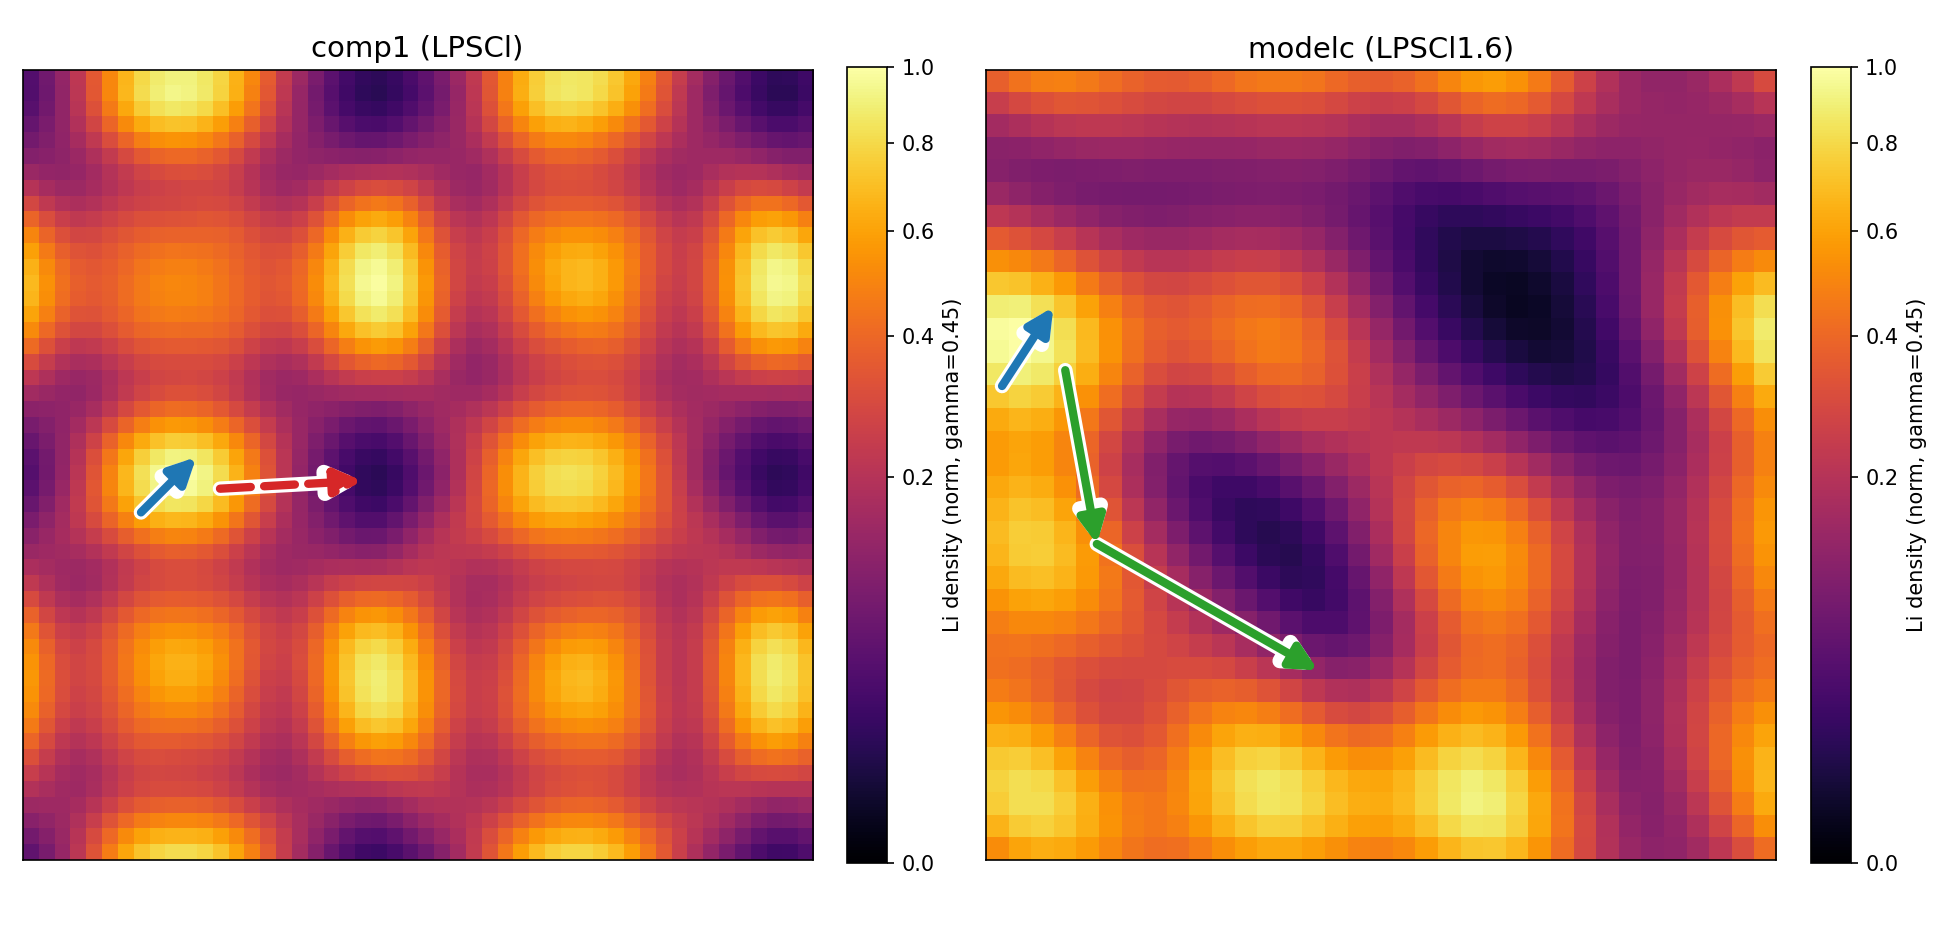
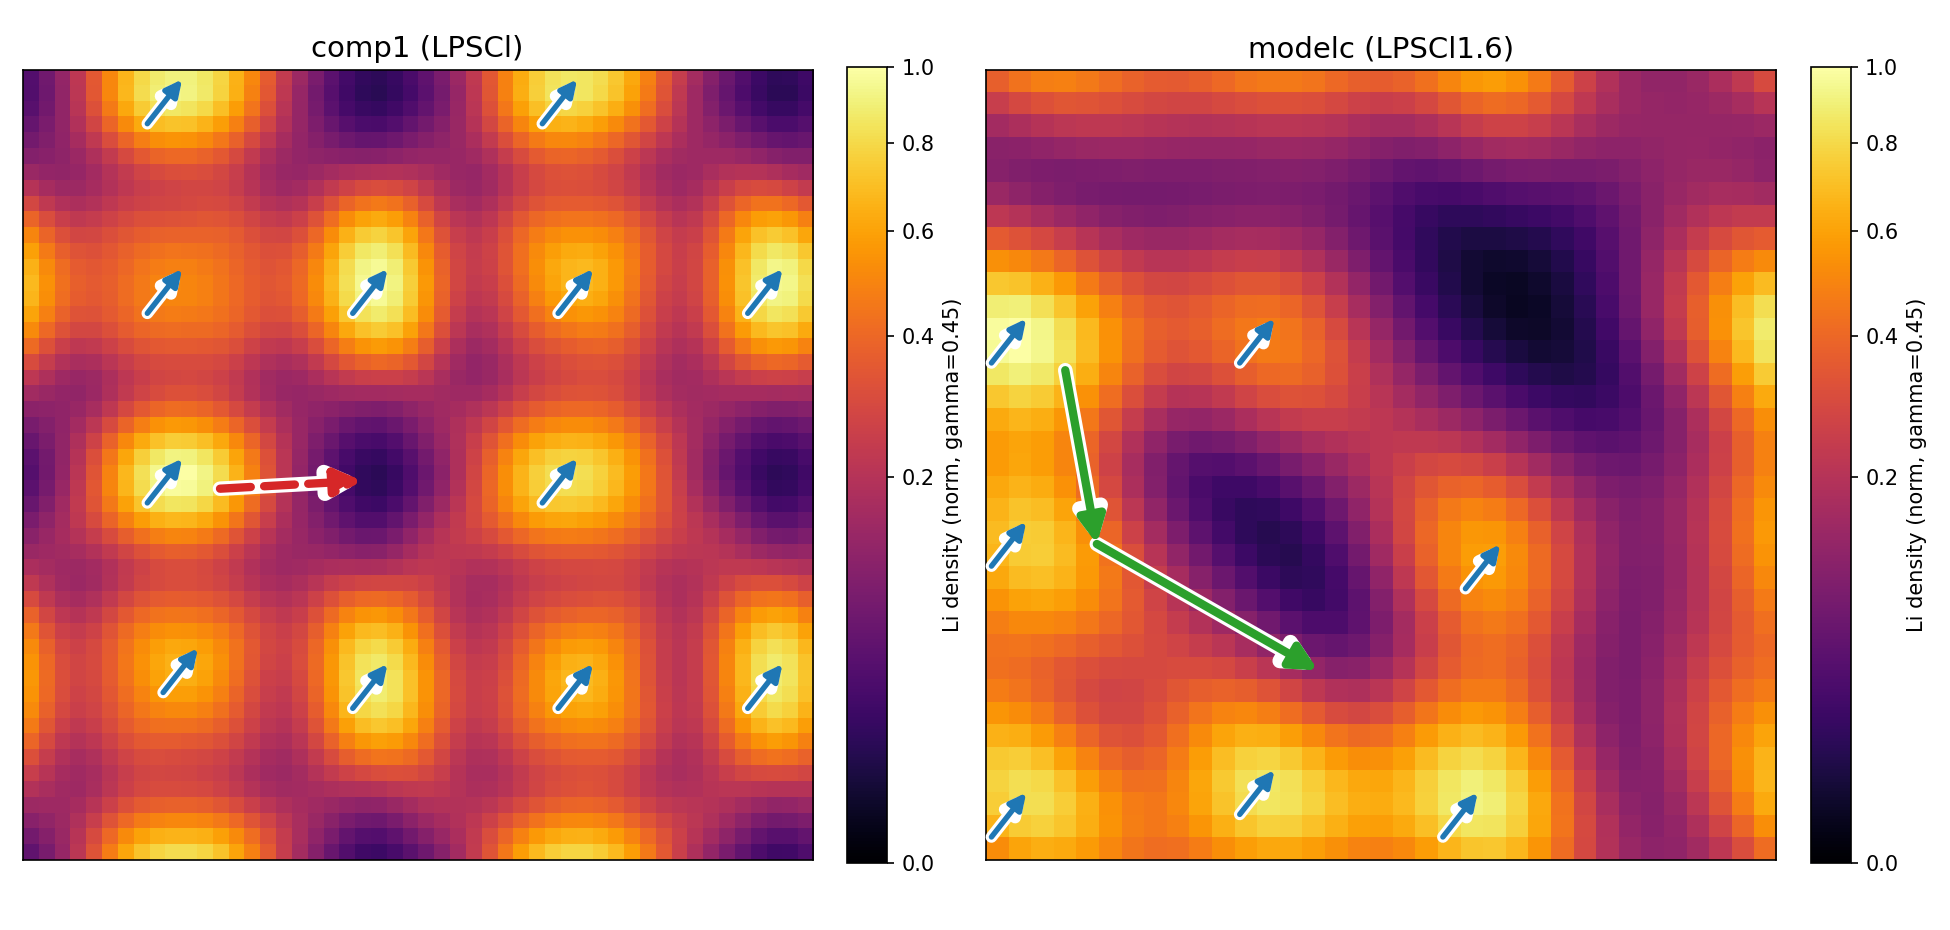
Show intra-cage (blue) arrow at every cage core (--all-intra)
Adds --all-intra: auto-detects every bright cage core (local maxima) and
draws a short blue intra-cage arrow on each, so the figure shows intra-cage
motion is ubiquitous in BOTH phases while the distinguishing inter-cage step
is blocked (red, comp1) vs percolating (green, modelc). comp1 12 cores,
modelc 7 cores. Tunable via --core-thr/--core-dist.

Claude-Session: https://claude.ai/code/session_01L44TWYrHkcm4PH5ihWSSCw

diff --git a/tools/figures/plot_intercage_from_cube.py b/tools/figures/plot_intercage_from_cube.py
@@ -57,16 +57,27 @@ def read_cube(path):
     return rho, cell, np.array(Z), np.array(R, float).reshape(-1, 3)
 
 
-def draw_arrow(ax, x0, y0, x1, y1, color, dashed):
-    for col, w, z in (("white", 7, 4), (color, 4, 5)):     # white halo then colour
+def draw_arrow(ax, x0, y0, x1, y1, color, dashed, lw=4, scale=26):
+    for col, w, z in (("white", lw + 3, 4), (color, lw, 5)):  # white halo then colour
         ax.annotate("", xy=(x1, y1), xytext=(x0, y0), zorder=z,
                     arrowprops=dict(arrowstyle="-|>", color=col, lw=w,
-                                    mutation_scale=26, shrinkA=0, shrinkB=0,
+                                    mutation_scale=scale, shrinkA=0, shrinkB=0,
                                     linestyle="--" if (dashed and col != "white")
                                     else "-"))
 
 
-def panel(ax, spec, arrows, gamma, show_cl):
+def find_cores(P, thr, min_dist):
+    """Fractional (x=a, y=b) positions of every bright cage core (local maxima)."""
+    from scipy.ndimage import maximum_filter, label, center_of_mass
+    peaks = (P == maximum_filter(P, size=min_dist, mode="wrap")) & (P >= thr * P.max())
+    lab, n = label(peaks)
+    if n == 0:
+        return []
+    na, nb = P.shape
+    return [(c[0] / na, c[1] / nb) for c in center_of_mass(P, lab, range(1, n + 1))]
+
+
+def panel(ax, spec, arrows, gamma, show_cl, all_intra, core_thr, core_dist):
     cube, _, title = spec.partition(":"); title = title or cube
     rho, cell, Z, R = read_cube(cube)
     P = rho.sum(axis=2)                                     # c-axis projection
@@ -83,6 +94,11 @@ def panel(ax, spec, arrows, gamma, show_cl):
                        edgecolors="white", linewidths=1.5, zorder=6,
                        label="Cl (inter-cage)")
             ax.legend(loc="upper left", fontsize=9, framealpha=0.85)
+    if all_intra:                  # one short blue intra-cage arrow per cage core
+        for (x, y) in find_cores(P, core_thr, core_dist):
+            draw_arrow(ax, x - 0.022, y - 0.028, x + 0.022, y + 0.028,
+                       BLUE, False, lw=2.6, scale=16)
+        arrows = [a for a in arrows if a[4] != BLUE]        # drop the single manual blue
     for (x0, y0, x1, y1, c, dash) in arrows:
         draw_arrow(ax, x0, y0, x1, y1, c, dash)
     return im
@@ -95,12 +111,19 @@ def main():
     ap.add_argument("--gamma", type=float, default=0.45)
     ap.add_argument("--cl", action="store_true", help="show correct Cl dots")
     ap.add_argument("--no-arrows", action="store_true")
+    ap.add_argument("--all-intra", action="store_true",
+                    help="blue intra-cage arrow at EVERY cage core")
+    ap.add_argument("--core-thr", type=float, default=0.45,
+                    help="core = local max above this fraction of peak")
+    ap.add_argument("--core-dist", type=int, default=7,
+                    help="min core separation (voxels)")
     ap.add_argument("--out", default="intercage_clean.png")
     a = ap.parse_args()
     fig, axes = plt.subplots(1, 2, figsize=(13, 6.2))
     for ax, spec, arrows in ((axes[0], a.left, ARROWS_L),
                              (axes[1], a.right, ARROWS_R)):
-        im = panel(ax, spec, [] if a.no_arrows else arrows, a.gamma, a.cl)
+        im = panel(ax, spec, [] if a.no_arrows else arrows, a.gamma, a.cl,
+                   a.all_intra, a.core_thr, a.core_dist)
         fig.colorbar(im, ax=ax, fraction=0.046, pad=0.04,
                      label=f"Li density (norm, gamma={a.gamma})")
     fig.tight_layout(); fig.savefig(a.out, dpi=150)
